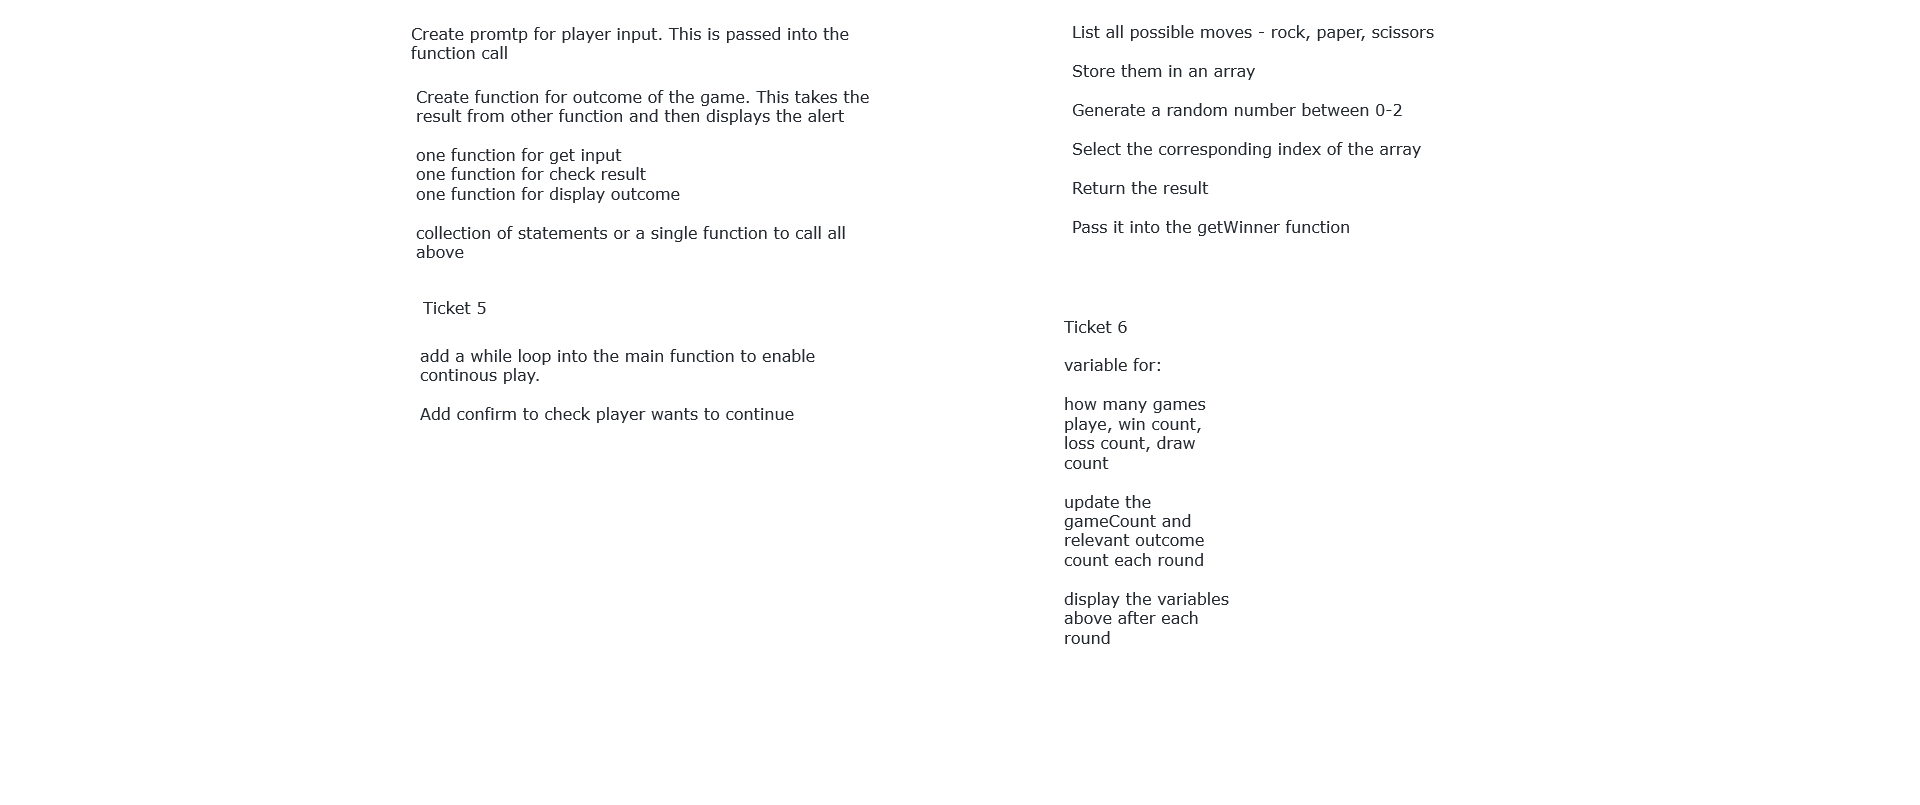
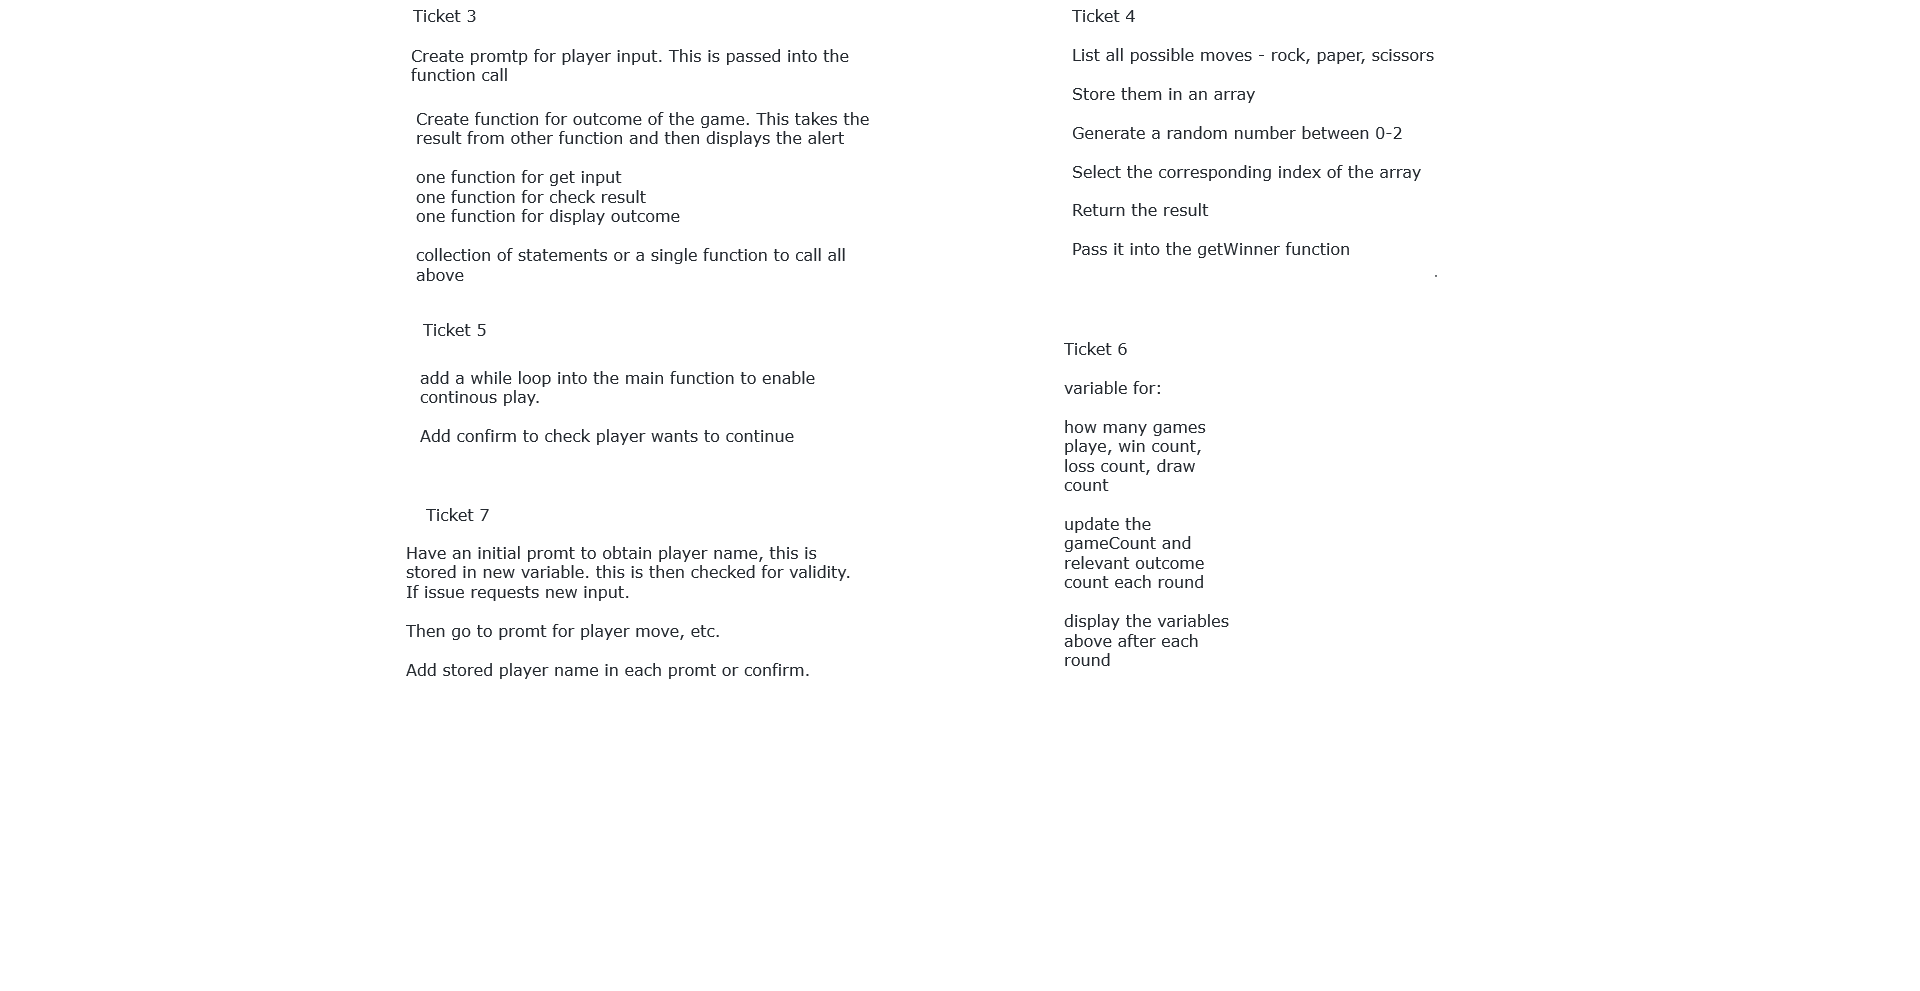
Completed ticket 7 - main

diff --git a/main.js b/main.js
@@ -27,13 +27,13 @@ function getWinner(player1, player2) {
         player1 === "scissors" && player2 === "paper" ||
         player1 === "paper" && player2 === "rock" ){            
             winCount++;
-            return `Your ${player1} beat computers ${player2}`;    
+            return `${playerName}'s ${player1} beat computers ${player2}`;    
     }else if(player1 === player2){
         drawCount++;
-        return `Your ${player1} drew against computers ${player2}`;
+        return `${playerName}'s ${player1} drew against computers ${player2}`;
     }else{
         loseCount++;
-        return `Your ${player1} lost against computers ${player2}`;
+        return `${playerName}'s ${player1} lost against computers ${player2}`;
     };    
 }
 /* used for ticket 2, not needed now
@@ -45,7 +45,7 @@ let result = getWinner("rock", "scissors");
 //To ask for player move
 function getPlayerInput(){
 
-    return prompt("Please input your move");
+    return prompt(`Please input your move ${playerName}`);
 };
 
 //Display outcome of game
@@ -59,6 +59,7 @@ let gameCount = 0;
 let winCount = 0;
 let loseCount = 0;
 let drawCount = 0;
+let playerName;
 
 function main(){
     let playerMove;
@@ -69,6 +70,7 @@ function main(){
 
     while(gamePlaying ===true){
 
+    getplayerName();
     playerMove = getPlayerInput();
     computerMove = getComputerInput();
     result = getWinner(playerMove, computerMove);
@@ -93,7 +95,19 @@ function getComputerInput() {
 //Checks if the player would like to keep playing 
 function confirmCheck(){
     
-    return confirm(`Games played: ${gameCount}\nWins: ${winCount}\nLosses: ${loseCount}\nDraws: ${drawCount}\nDo you wish to play again?`)
+    return confirm(`Games played: ${gameCount}\nWins: ${winCount}\nLosses: ${loseCount}\nDraws: ${drawCount}\nDo you wish to play again ${playerName}?`)
+}
+
+//Ticket 7 
+function getplayerName(){
+
+    playerName = prompt("Please input your User Name. This should be no more than 10 characters");
+
+    while(playerName.length>10){
+        playerName = prompt("Sorry that is not a valid User Name! Please input a User Name LESS THAN 10 CHARACTERS!");
+    }
+
+    return playerName;
 }
 
 //runs the program
